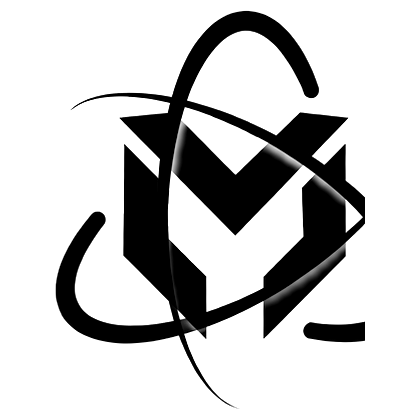
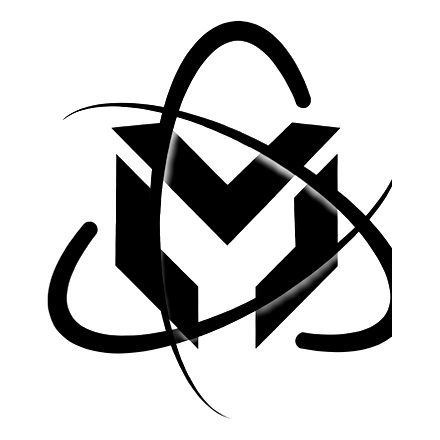
Press kit só com imagens + botão para o Drive; símbolo sem cortar o M
- Remove nomes e tipos embaixo das imagens e a bio curta
- Botão "Press kit completo no Drive" para a pasta do Drive
- Recorta o símbolo de novo sem cortar a órbita do M (favicon, ícones, PNG)
- Press kit em 2 colunas no celular

Claude-Session: https://claude.ai/code/session_01ERtKRWVedc4WyCrvbLqEAw

Changed region(s): [[0.0929, 0.0, 0.8976, 0.9595], [0.1548, 0.2476, 0.1857, 0.2786]]

diff --git a/index.html b/index.html
@@ -16,7 +16,7 @@
   <link rel="preconnect" href="https://fonts.googleapis.com">
   <link rel="preconnect" href="https://fonts.gstatic.com" crossorigin>
   <link href="https://fonts.googleapis.com/css2?family=Chakra+Petch:wght@400;500;600;700&family=Share+Tech+Mono&family=Space+Grotesk:wght@400;500;600&display=swap" rel="stylesheet">
-  <link rel="stylesheet" href="assets/css/style.css?v=202610152020">
+  <link rel="stylesheet" href="assets/css/style.css?v=202610152023">
   <script>document.documentElement.classList.remove("no-js")</script>
 </head>
 <body>
@@ -298,14 +298,16 @@
         <h2 class="h2 reveal"><span data-en="Material for">Material para</span> <em class="neon" data-en="flyers &amp; press.">flyers &amp; imprensa.</em></h2>
       </div>
       <ul class="kit">
-        <li class="reveal"><a href="assets/press/mercurio-logo-branco.png" download><span class="kit__thumb kit__thumb--logo"><img src="assets/img/mercurio-logo.png" alt="" loading="lazy"></span><span class="kit__name">Logo Mercúrio</span><span class="kit__type" data-en="PNG · transparent">PNG · transparente</span></a></li>
-        <li class="reveal"><a href="assets/press/mercurio-simbolo.png" download><span class="kit__thumb kit__thumb--logo"><img src="assets/img/mercurio-simbolo.png" alt="" loading="lazy"></span><span class="kit__name" data-en="Symbol">Símbolo</span><span class="kit__type">PNG · 420px</span></a></li>
-        <li class="reveal"><a href="assets/press/mercurio-foto-1.jpg" download><span class="kit__thumb"><img src="assets/img/mercurio-retrato.jpg" alt="" loading="lazy"></span><span class="kit__name" data-en="Photo · portrait">Foto · retrato</span><span class="kit__type">JPG</span></a></li>
-        <li class="reveal"><a href="assets/press/mercurio-foto-2.jpg" download><span class="kit__thumb"><img src="assets/img/gallery/retrato-costas.jpg" alt="" loading="lazy"></span><span class="kit__name" data-en="Photo · back">Foto · costas</span><span class="kit__type">JPG</span></a></li>
-        <li class="reveal"><a href="assets/press/mercurio-foto-3.jpg" download><span class="kit__thumb"><img src="assets/img/gallery/retrato-fone.jpg" alt="" loading="lazy"></span><span class="kit__name" data-en="Photo · headphones">Foto · fone</span><span class="kit__type">JPG</span></a></li>
-        <li class="reveal"><a href="assets/press/mercurio-ao-vivo.jpg" download><span class="kit__thumb"><img src="assets/img/gallery/cabine-pioneer.jpg" alt="" loading="lazy"></span><span class="kit__name" data-en="Photo · live">Foto · ao vivo</span><span class="kit__type">JPG</span></a></li>
-        <li class="reveal"><button type="button" id="copyBio"><span class="kit__thumb kit__thumb--text">&gt;_</span><span class="kit__name" data-en="Short bio">Bio curta</span><span class="kit__type" data-en="click to copy">clique para copiar</span></button></li>
+        <li class="reveal"><a href="assets/press/mercurio-logo-branco.png" download aria-label="Baixar logo Mercúrio (PNG)"><span class="kit__thumb kit__thumb--logo"><img src="assets/img/mercurio-logo.png" alt="" loading="lazy"></span></a></li>
+        <li class="reveal"><a href="assets/press/mercurio-simbolo.png" download aria-label="Baixar símbolo Mercúrio (PNG)"><span class="kit__thumb kit__thumb--logo"><img src="assets/img/mercurio-simbolo.png" alt="" loading="lazy"></span></a></li>
+        <li class="reveal"><a href="assets/press/mercurio-foto-1.jpg" download aria-label="Baixar foto: retrato"><span class="kit__thumb"><img src="assets/img/mercurio-retrato.jpg" alt="" loading="lazy"></span></a></li>
+        <li class="reveal"><a href="assets/press/mercurio-foto-2.jpg" download aria-label="Baixar foto: costas"><span class="kit__thumb"><img src="assets/img/gallery/retrato-costas.jpg" alt="" loading="lazy"></span></a></li>
+        <li class="reveal"><a href="assets/press/mercurio-foto-3.jpg" download aria-label="Baixar foto: fone"><span class="kit__thumb"><img src="assets/img/gallery/retrato-fone.jpg" alt="" loading="lazy"></span></a></li>
+        <li class="reveal"><a href="assets/press/mercurio-ao-vivo.jpg" download aria-label="Baixar foto: ao vivo"><span class="kit__thumb"><img src="assets/img/gallery/cabine-pioneer.jpg" alt="" loading="lazy"></span></a></li>
       </ul>
+      <div class="kit__drive reveal">
+        <a class="btn btn--neon" href="https://drive.google.com/drive/folders/135tGCixFDxByq_wOD0vwJZ2E5dZUI4MT" target="_blank" rel="noopener" data-en="Full press kit on Drive ↗">Press kit completo no Drive ↗</a>
+      </div>
     </section>
   </main>
 
@@ -341,6 +343,6 @@
   </div>
 
   <script src="https://w.soundcloud.com/player/api.js"></script>
-  <script src="assets/js/main.js?v=202610152020" defer></script>
+  <script src="assets/js/main.js?v=202610152023" defer></script>
 </body>
 </html>

diff --git a/assets/css/style.css b/assets/css/style.css
@@ -482,18 +482,16 @@ button { font: inherit; color: inherit; background: none; border: 0; cursor: poi
 /* ---------- Press kit ---------- */
 .kit { list-style: none; margin: 0; padding: 0; display: grid; grid-template-columns: repeat(auto-fill, minmax(170px, 1fr)); gap: 14px; }
 .kit a, .kit button {
-  display: grid; gap: 4px; width: 100%; text-align: left; padding: 12px 12px 16px;
+  display: grid; width: 100%; padding: 10px;
   background: var(--void-2); box-shadow: inset 0 0 0 1px var(--line);
   clip-path: polygon(14px 0, 100% 0, 100% calc(100% - 14px), calc(100% - 14px) 100%, 0 100%, 0 14px);
   transition: box-shadow .3s, transform .5s var(--ease);
 }
 .kit a:hover, .kit button:hover { box-shadow: inset 0 0 0 1px var(--cyan); transform: translateY(-4px); }
-.kit__thumb { display: grid; place-items: center; aspect-ratio: 1; overflow: hidden; background: #000; margin-bottom: 10px; }
+.kit__thumb { display: grid; place-items: center; aspect-ratio: 1; overflow: hidden; background: #000; }
 .kit__thumb img { width: 100%; height: 100%; object-fit: cover; }
 .kit__thumb--logo img { object-fit: contain; padding: 12%; }
-.kit__thumb--text { font: 400 48px/1 var(--f-mono); color: var(--acid); background: linear-gradient(160deg, #1b0b3d, var(--void)); }
-.kit__name { font: 600 14px/1.3 var(--f-body); }
-.kit__type { font: 400 12px/1.3 var(--f-mono); color: var(--muted); }
+.kit__drive { display: flex; justify-content: center; margin-top: 28px; }
 
 /* ---------- Footer ---------- */
 .footer { position: relative; display: grid; justify-items: center; gap: 18px; padding: 100px var(--gutter) 40px; text-align: center; border-top: 1px solid var(--line); overflow: hidden; }
@@ -528,6 +526,7 @@ button { font: inherit; color: inherit; background: none; border: 0; cursor: poi
   .reel--offset { margin-top: 0; }
   .brief__row { grid-template-columns: 1fr; }
   .facts { grid-template-columns: 1fr; }
+  .kit { grid-template-columns: repeat(2, minmax(0, 1fr)); gap: 10px; }
   .sound-block__grid { grid-template-columns: 1fr; text-align: center; }
   .sound-block .section__sub { margin-inline: auto; }
   .about__sigil { right: -2%; }

diff --git a/assets/js/main.js b/assets/js/main.js
@@ -479,19 +479,6 @@
   });
   if (lang === "en") applyLang();
 
-  /* ---------- Clipboard ---------- */
-  const copy = async (text) => {
-    try { await navigator.clipboard.writeText(text); return true; }
-    catch {
-      const ta = Object.assign(document.createElement("textarea"), { value: text });
-      ta.style.position = "fixed"; ta.style.opacity = "0";
-      document.body.append(ta); ta.select();
-      const ok = document.execCommand("copy");
-      ta.remove();
-      return ok;
-    }
-  };
-
   /* ---------- Pedido de booking (WhatsApp) ---------- */
   const WHATSAPP = "5511940530379";
   const form = $("#brief");
@@ -522,19 +509,6 @@
     window.open(url, "_blank", "noopener");
   });
   $$("input, textarea", form).forEach((f) => f.addEventListener("input", () => f.classList.remove("is-invalid")));
-
-  /* ---------- Bio curta (press kit) ---------- */
-  const BIO = {
-    pt: "Mercúrio é o projeto de progressive / psytrance de Gilliard Rocha, 24 anos, da zona leste de São Paulo. Basslines agressivos e elementos em offbeat seguram a pista a 145 BPM. Booking: (11) 94053-0379 · djm3036@gmail.com · @_mercuriodj",
-    en: "Mercúrio is the progressive / psytrance project of Gilliard Rocha, 24, from the east side of São Paulo. Aggressive basslines and offbeat elements hold the dancefloor at 145 BPM. Booking: +55 11 94053-0379 · djm3036@gmail.com · @_mercuriodj",
-  };
-  const bioBtn = $("#copyBio");
-  bioBtn.addEventListener("click", async () => {
-    const type = $(".kit__type", bioBtn);
-    const ok = await copy(BIO[lang]);
-    type.textContent = ok ? t("copiada ✓", "copied ✓") : "—";
-    setTimeout(() => { type.textContent = t("clique para copiar", "click to copy"); }, 2200);
-  });
 
   $("#year").textContent = new Date().getFullYear();
 })();
